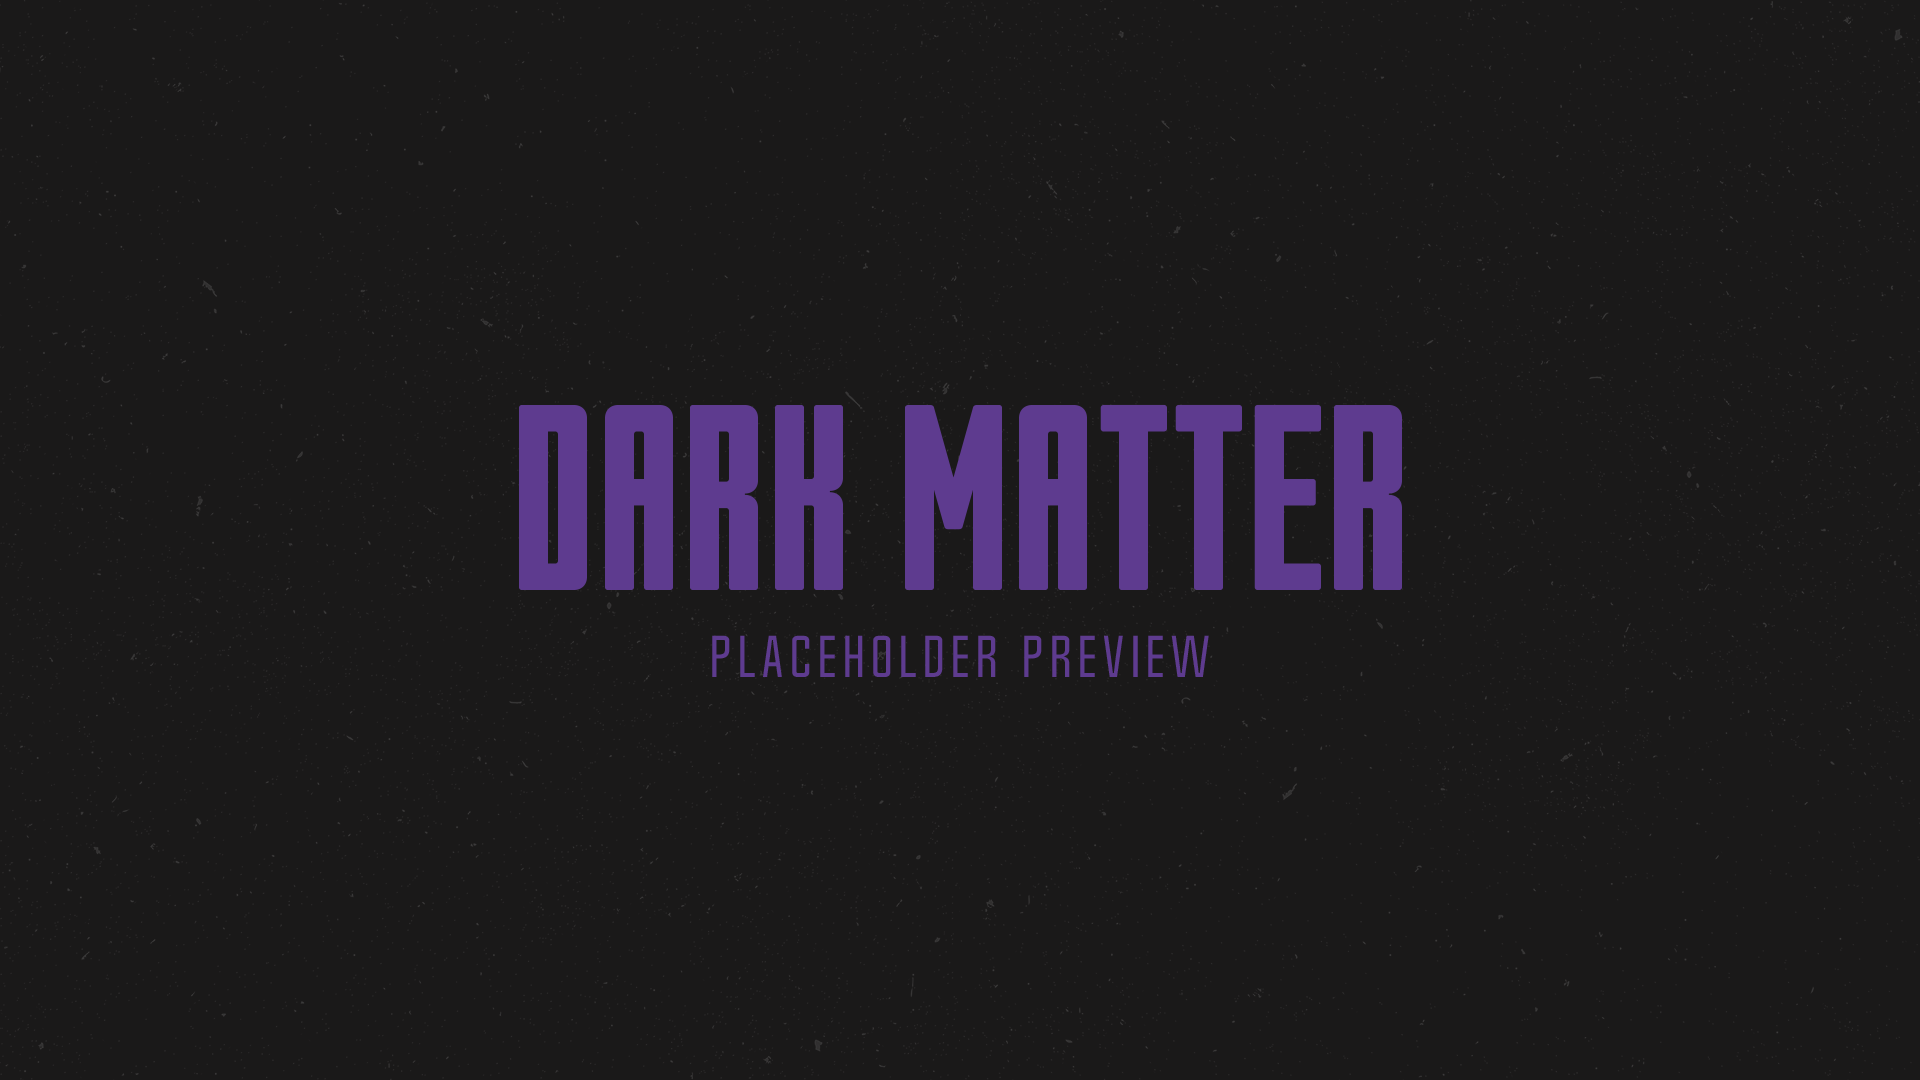
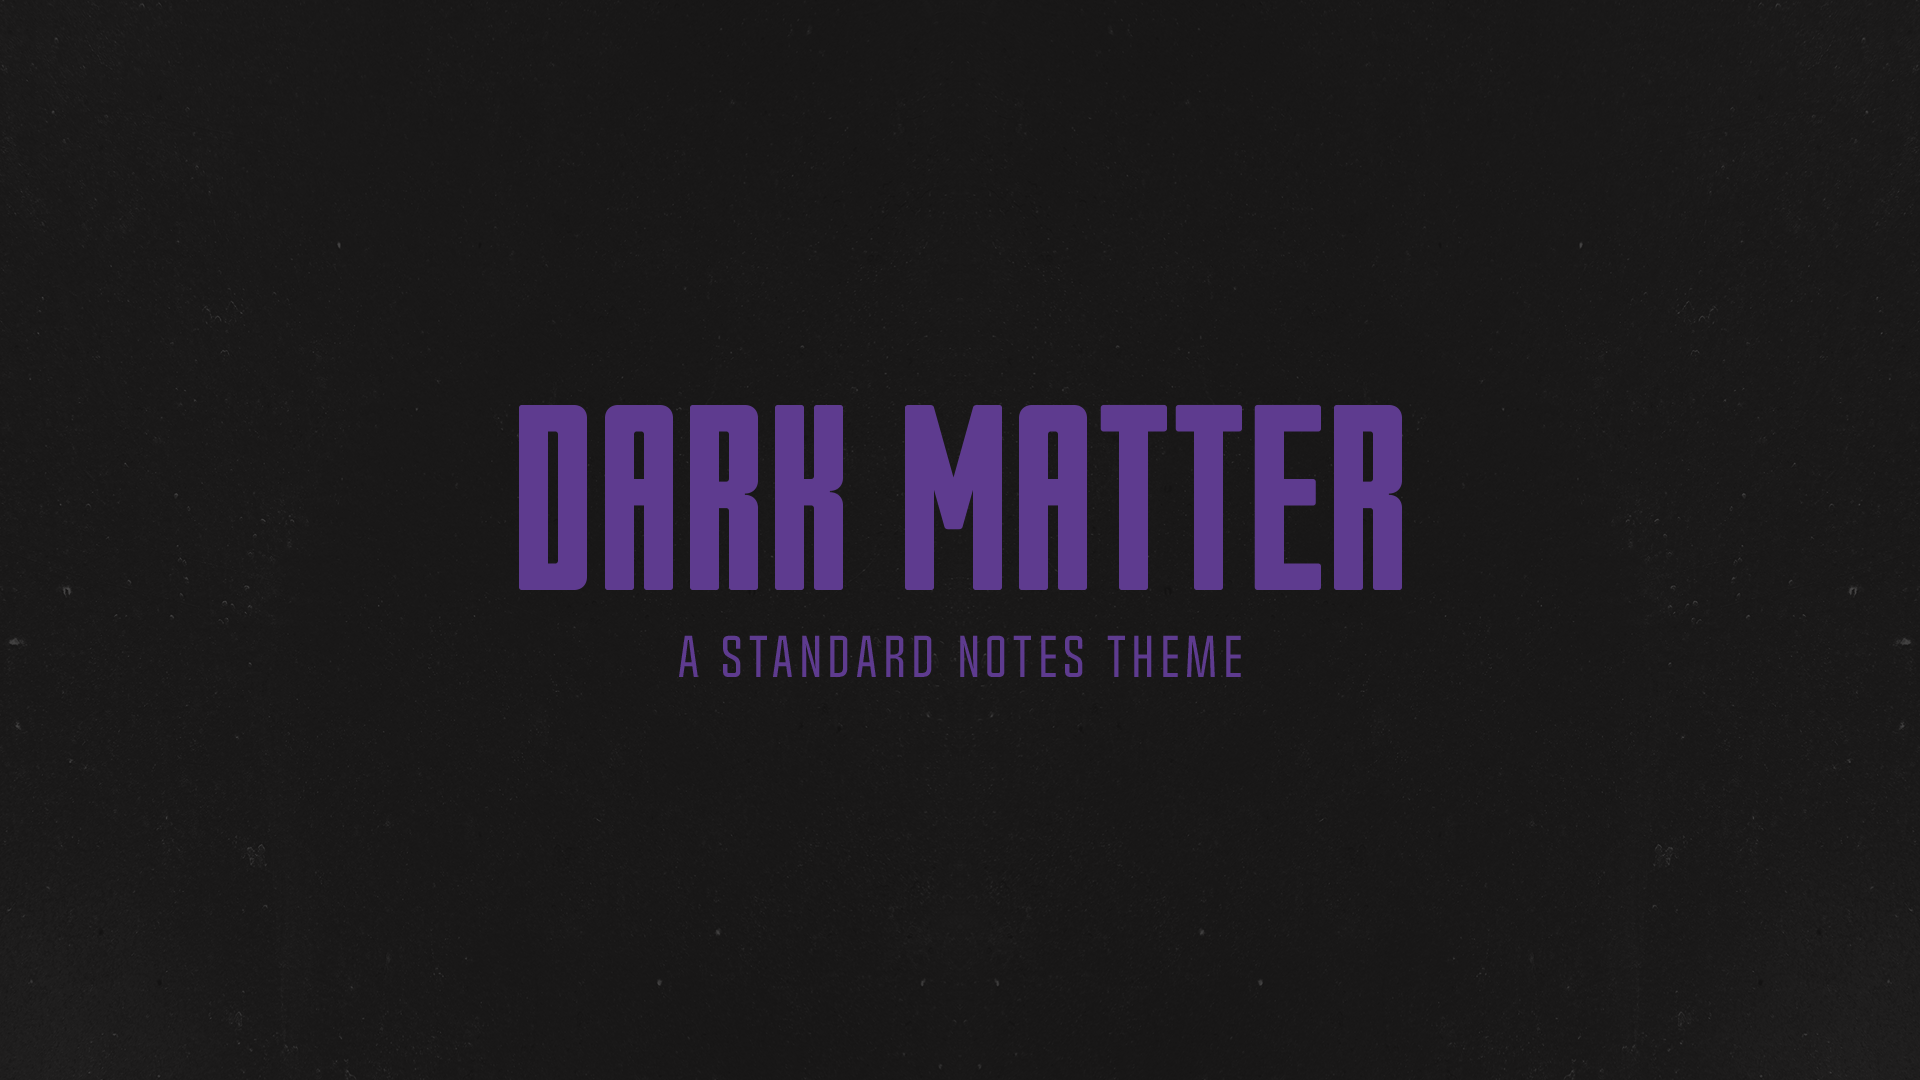
Update preview and finish new main.css

Changed region(s): [[0.3438, 0.5806, 0.6562, 0.6417]]

diff --git a/main.css b/main.css
@@ -2,7 +2,7 @@
     --foreground-color: #dfdfe8;
     --background-color: #1d1c1c;
     --highlight-color: #5e3b8f;
-    --border-color: #36363600;
+    --border-color: transparent;
     --sn-component-foreground-color: var(--foreground-color);
     --sn-component-background-color: transparent;
     --sn-component-foreground-highlight-color: var(--highlight-color);
@@ -12,25 +12,26 @@
     --sn-stylekit-passive-color-3: #2e2e2e;
     --sn-stylekit-passive-color-4: #222122;
     --sn-stylekit-passive-color-5: #2e2e2e9e;
+    --sn-stylekit-passive-color-4-opacity-variant: #bbbec40f;
     --sn-stylekit-shadow-color: #000000;
     --sn-stylekit-info-color: var(--highlight-color);
     --sn-stylekit-info-contrast-color: var(--foreground-color);
-    --sn-stylekit-neutral-color: #7c7c7c;
-    --sn-stylekit-neutral-contrast-color: #ffffff;
+    --sn-stylekit-neutral-color: var(--foreground-color);
+    --sn-stylekit-neutral-contrast-color: var(--foreground-color);
     --sn-stylekit-success-color: #2e2e2ed4;
-    --sn-stylekit-success-contrast-color: #ffffff;
+    --sn-stylekit-success-contrast-color: var(--foreground-color);
     --sn-stylekit-warning-color: #cc8800;
-    --sn-stylekit-warning-contrast-color: #ffffff;
-    --sn-stylekit-danger-color: #f80324;
-    --sn-stylekit-danger-contrast-color: #ffffff;
+    --sn-stylekit-warning-contrast-color: var(--foreground-color);
+    --sn-stylekit-danger-color: #cd1538;
+    --sn-stylekit-danger-contrast-color: var(--foreground-color);
     --sn-stylekit-editor-background-color: var(--sn-stylekit-background-color);
     --sn-stylekit-editor-foreground-color: var(--sn-stylekit-foreground-color);
     --sn-stylekit-background-color: var(--background-color);
     --sn-stylekit-foreground-color: var(--foreground-color);
-    --sn-stylekit-border-color: #181a1b;
-    --sn-stylekit-contrast-background-color: #000000;
-    --sn-stylekit-contrast-foreground-color: #ffffff;
-    --sn-stylekit-contrast-border-color: #000000;
+    --sn-stylekit-border-color: var(--border-color);
+    --sn-stylekit-contrast-background-color: var(--background-color);
+    --sn-stylekit-contrast-foreground-color: var(--foreground-color);
+    --sn-stylekit-contrast-border-color: transparent;
     --sn-stylekit-secondary-background-color: var(--sn-stylekit-passive-color-4);
     --sn-stylekit-secondary-foreground-color: #ffffff;
     --sn-stylekit-secondary-border-color: #000000;
@@ -43,24 +44,25 @@
     --sn-desktop-titlebar-ui-color: var(--foreground-color);
     --sn-desktop-titlebar-ui-hover-color: var(--highlight-color);
     --sn-stylekit-scrollbar-track-border-color: var(--border-color);
-    --sn-stylekit-scrollbar-thumb-color: var(--sn-stylekit-info-color);
+    --sn-stylekit-scrollbar-thumb-color: #2e2e2eb3;
     --sn-stylekit-menu-border: 1px solid #424242;
-    --navigation-item-selected-background-color: var(--background-color);
+    --navigation-item-selected-background-color: #2f2e30a8;
     --normal-button-background-color: var(--sn-stylekit-passive-color-5);
+    --sn-stylekit-accessory-tint-color-1: #5e3b8f;
 
     /* Overrides */
     --modal-background-color: var(--sn-stylekit-background-color);
     --editor-header-bar-background-color: var(--sn-stylekit-background-color);
     --editor-background-color: var(--sn-stylekit-editor-background-color);
     --editor-foreground-color: var(--sn-stylekit-editor-foreground-color);
-    --editor-title-bar-border-bottom-color: var(--sn-stylekit-border-color);
+    --editor-title-bar-border-bottom-color: var(--sn-stylekit-success-color);
     --editor-title-input-color: var(--sn-stylekit-editor-foreground-color);
     --editor-pane-background-color: var(--sn-stylekit-background-color);
     --editor-pane-editor-background-color: var(--sn-stylekit-editor-background-color);
     --editor-pane-editor-foreground-color: var(--sn-stylekit-editor-foreground-color);
     --editor-pane-component-stack-item-background-color: var(--sn-stylekit-background-color);
     --text-selection-color: var(--sn-stylekit-info-contrast-color);
-    --text-selection-background-color: var(--sn-stylekit-info-color);
+    --text-selection-background-color: #323034;
     --note-preview-progress-color: var(--sn-stylekit-info-color);
     --note-preview-progress-background-color: var(--sn-stylekit-passive-color-4-opacity-variant);
     --note-preview-selected-progress-color: var(--sn-stylekit-secondary-background-color);
@@ -70,7 +72,7 @@
     --items-column-border-left-color: var(--sn-stylekit-border-color);
     --items-column-border-right-color: var(--sn-stylekit-border-color);
     --items-column-search-background-color: var(--sn-stylekit-contrast-background-color);
-    --item-cell-selected-background-color: var(--sn-stylekit-contrast-background-color);
+    --item-cell-selected-background-color: #2f2e3061;
     --item-cell-selected-border-left-color: var(--sn-stylekit-info-color);
     --navigation-column-background-color: var(--sn-stylekit-secondary-background-color);
     --navigation-section-title-color: var(--sn-stylekit-secondary-foreground-color);
@@ -78,9 +80,32 @@
     --navigation-item-count-color: var(--sn-stylekit-neutral-color);
     --navigation-item-selected-background-color: rgb(253, 253, 253);
     --preferences-navigation-icon-color: var(--sn-stylekit-neutral-color);
-    --preferences-navigation-selected-background-color: var(--sn-stylekit-info-backdrop-color);
+    --preferences-navigation-selected-background-color: transparent;
     --dropdown-menu-radio-button-inactive-color: var(--sn-stylekit-passive-color-1);
-    --panel-resizer-background-color: var(--sn-stylekit-secondary-contrast-background-color);
+    --panel-resizer-background-color: var(--editor-title-bar-border-bottom-color);
     --link-element-color: var(--sn-stylekit-info-color);
     --normal-button-background-color: var(--sn-stylekit-background-color);
+}
+
+/* Custom element colors */
+.mb-3.flex.max-w-full.flex-col.rounded.border.border-solid.border-border.bg-default.p-6 {
+    background-color: var(--sn-stylekit-passive-color-4);
+}
+
+#button-0:hover {
+    background-color: var(--item-cell-selected-background-color);
+}
+
+.preferences-menu-item.selected:hover {
+    border-color: transparent;
+    background-color: var(--item-cell-selected-background-color);
+}
+
+.preferences-menu-item:hover {
+    background-color: var(--item-cell-selected-background-color);
+}
+
+[role="search"]>div {
+    background-color: var(--item-cell-selected-background-color);
+    border-color: transparent;
 }
